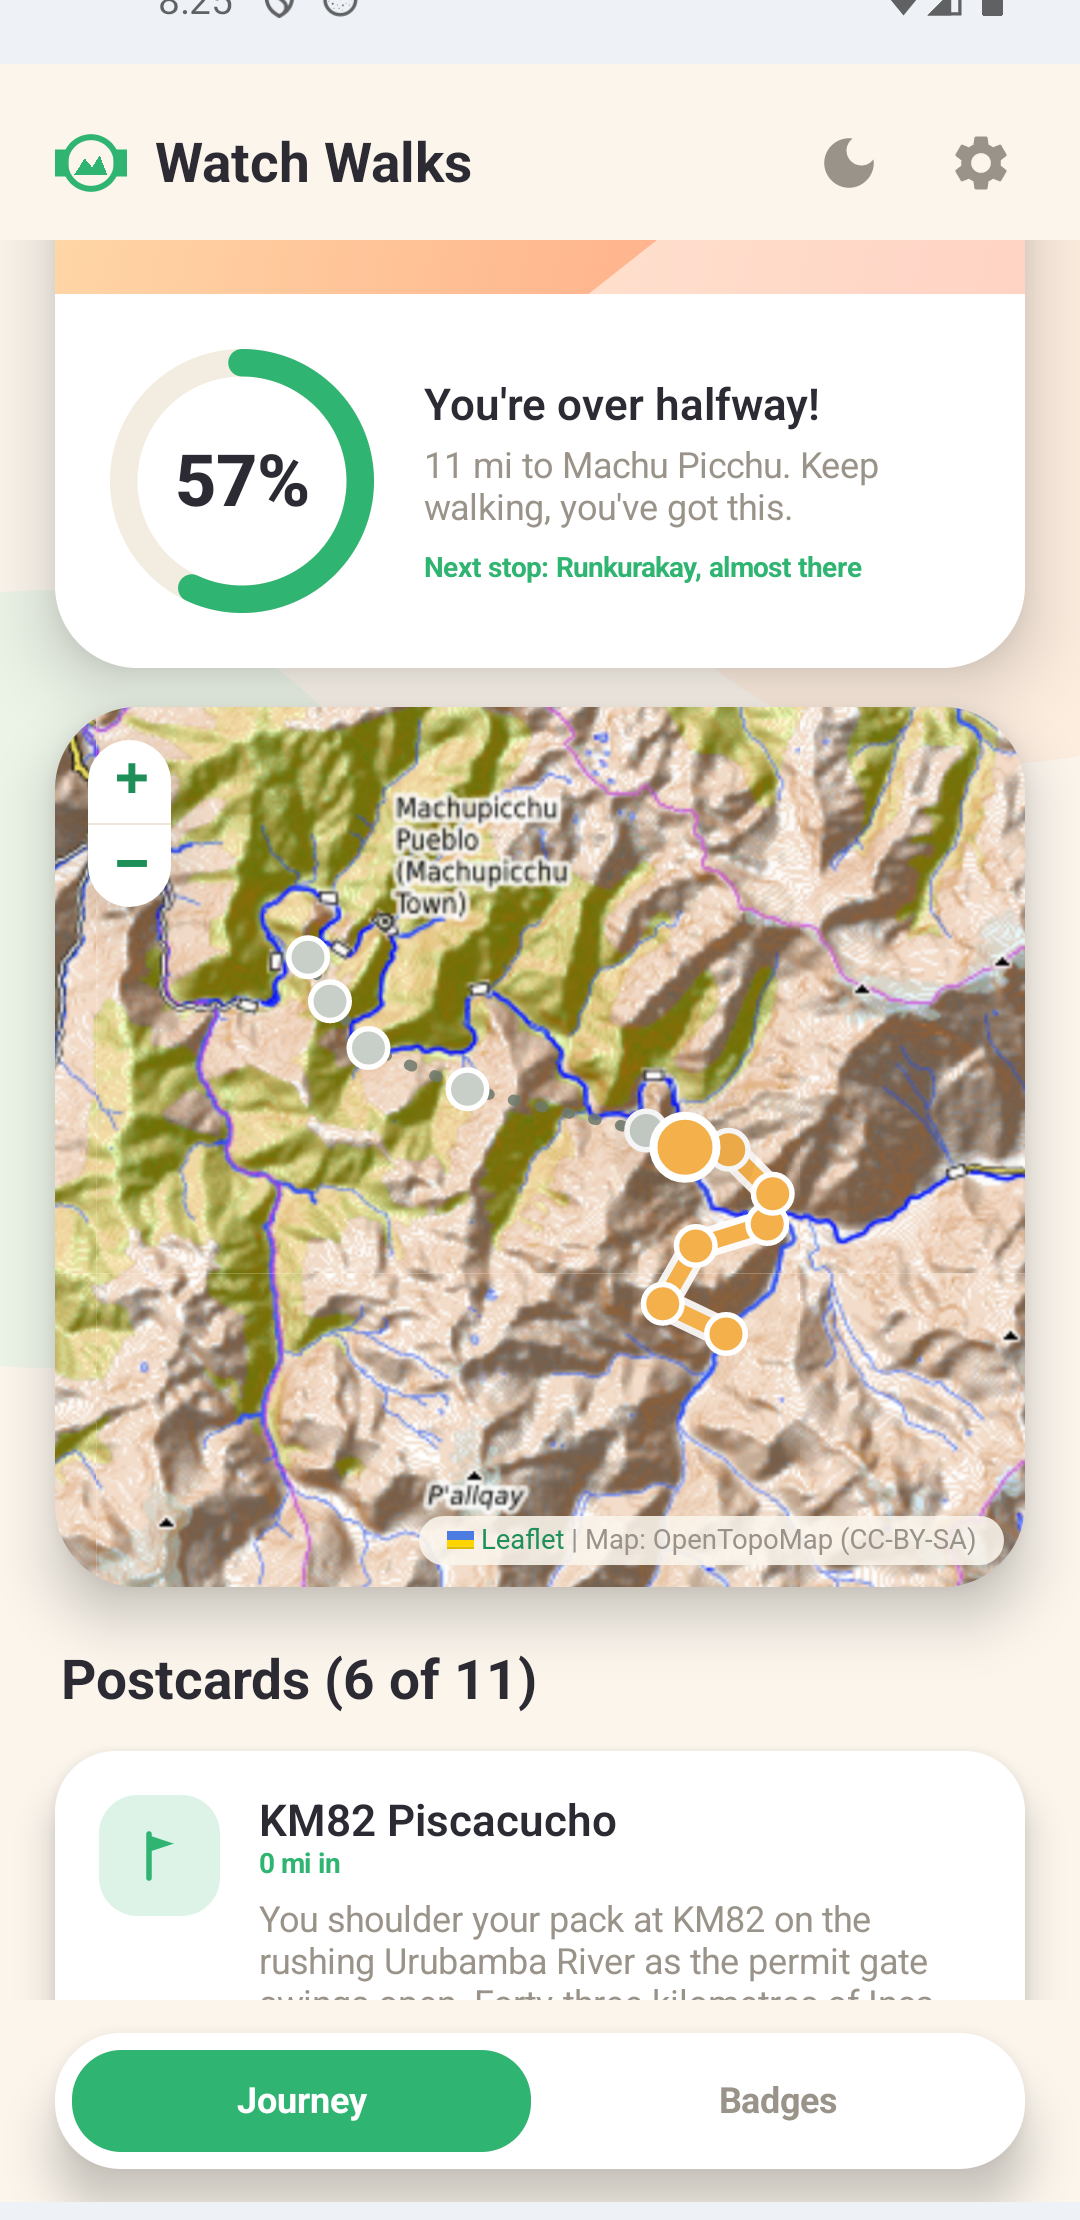
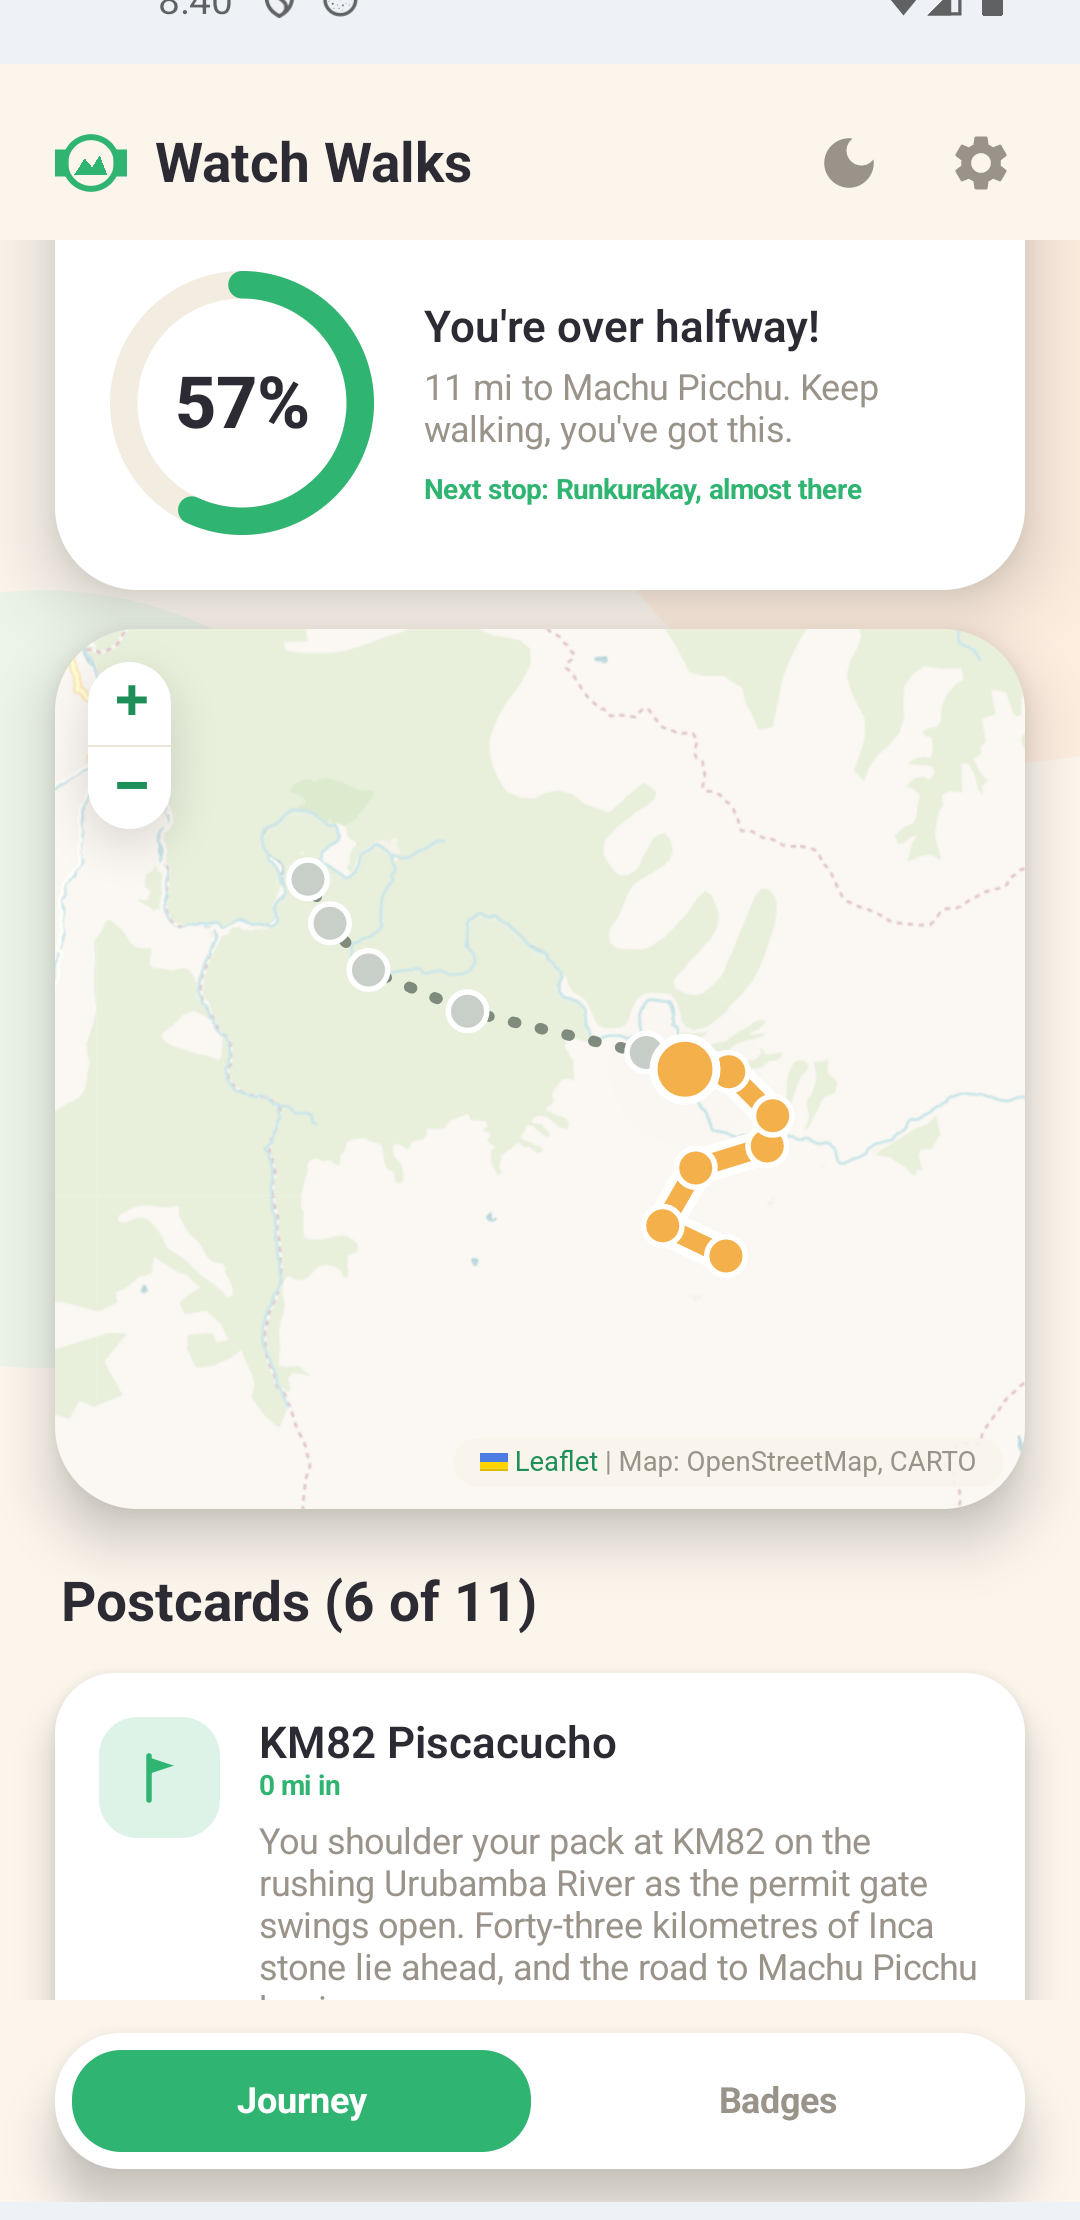
Map: cleaner CARTO basemap so the route stands out; live in-browser demo (Appetize) on the site

diff --git a/index.html b/index.html
@@ -172,6 +172,17 @@
     </ul>
   </section>
 
+  <!-- TRY IT -->
+  <section id="try">
+    <span class="eyebrow">Try it now</span>
+    <h2>Take the app for a walk.</h2>
+    <p class="sub">A live demo of the companion app, right here in your browser, loaded with sample data. Open the Journey, follow the map, read a postcard, and flip to your collection.</p>
+    <div class="demo-frame">
+      <iframe src="https://appetize.io/embed/3gwz7ps4mwfeqwmgfkrybiv5wu?device=pixel7&osVersion=13.0&scale=75&autoplay=false&screenOnly=false" frameborder="0" scrolling="no" allow="fullscreen" title="Watch Walks companion app demo"></iframe>
+    </div>
+    <p class="demo-note">The demo can take a few seconds to start, and one person can explore it at a time.</p>
+  </section>
+
   <!-- TRIAL SIGNUP -->
   <section id="trial" class="privacy-band">
     <span class="eyebrow">Beta access</span>

diff --git a/styles.css b/styles.css
@@ -156,6 +156,11 @@ footer .spacer { flex: 1; }
 .feat b { color: var(--text); }
 .feat-two { grid-template-columns: 1fr 1fr; gap: 13px 28px; }
 
+/* try-it demo */
+.demo-frame { display: grid; place-items: center; margin-top: 10px; }
+.demo-frame iframe { width: 390px; height: 770px; max-width: 100%; border: none; background: var(--bg2); border-radius: 24px; }
+.demo-note { color: var(--subtle); font-size: 14px; text-align: center; margin-top: 14px; }
+
 /* companion screenshots */
 .shots { display: grid; grid-template-columns: repeat(4, 1fr); gap: 20px; justify-items: center; max-width: 960px; margin: 0 auto 34px; }
 .shot { display: grid; justify-items: center; gap: 10px; margin: 0; }